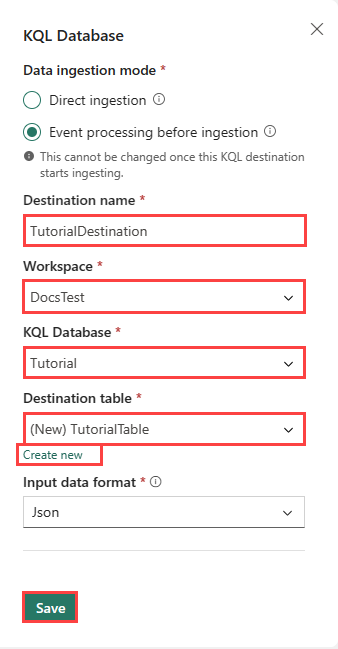
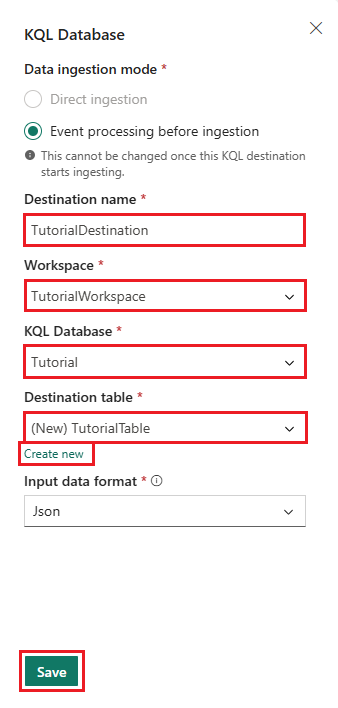
Updated workshop instructions

diff --git a/lab/tutorial-2-get-real-time-events.md b/lab/tutorial-2-get-real-time-events.md
@@ -13,12 +13,12 @@ In this part of the tutorial, you browse the Real-Time hub, create an event stre
 
 ### Sample data
 
-1. In **Source name**, enter *TutorialSource*.
+1. In **Source name**, enter +++*TutorialSource*+++.
 2. In **Sample data** select *Bicycles (Reflex compatible)*.
 
 ### Stream details
 
-1. Edit the **Eventstream name** by selecting the pencil icon and entering *TutorialEventstream*.
+1. Edit the **Eventstream name** by selecting the pencil icon and entering +++*TutorialEventstream*+++.
 2. Select **Next**.
 
 ![Screenshot of connect window in Real-Time hub.](media/connect-source.png)
@@ -27,14 +27,14 @@ In this part of the tutorial, you browse the Real-Time hub, create an event stre
 
 1. Review the event stream details and select **Create source**.
 
-   A new event stream named *TutorialEventstream* is created.
+   A new event stream named +++*TutorialEventstream*+++ is created.
 
 ## Transform events
 
 1. Select **Open Eventstream** from the notification that appears after creating the event stream, or browse to the event stream from the Real-time hub and select **Open Eventstream**.
 2. From the menu ribbon, select **Edit**.
 3. In the event stream authoring canvas select the down arrow on the **Transform events or add destination** tile.  
-4. Select **Manage fields**. The tile is renamed to *Manage_fields*.
+4. Select **Manage fields**. The tile is renamed to *Manage_fields1*.
 5. Select the pencil icon on the *Manage_fields* tile.
 6. In the Manage fields pane, do the following actions:
 
@@ -42,14 +42,12 @@ In this part of the tutorial, you browse the Real-Time hub, create an event stre
     ii. Select **Add all fields**.  
     iii. Select **+ Add field**.  
     iv. From the **Built-in Date Time Function** dropdown, select **SYSTEM.Timestamp()**.
+    v. Enter +++*Timestamp*+++ as the **Field name**.
+    vi. Select **Add**.
 
     ![Screenshot showing the system timestamp selected in the event stream manage fields tile in Real-Time Intelligence.](media/system-timestamp.png)
-
-    v. Enter *Timestamp* as the **Field name**.
-
-    vi. Select **Add**.
     
-8. Select **Save**.
+7. Select **Save**.
 > [!NOTE]
 > The *TutorialTransform* tile is now displayed but with an error, because the destination has not been set.
 
@@ -67,7 +65,7 @@ In this part of the tutorial, you browse the Real-Time hub, create an event stre
 
     | Field | Value |
     | --- | --- |
-    | **Destination name** | *TutorialDestination* |
+    | **Destination name** | +++*TutorialDestination*+++ |
     | **Workspace** | Select the workspace in which you've created your resources. |
     | **KQL Database** | *Tutorial* |
     | **Destination table** | *Create new* - enter *TutorialTable* as table name |

diff --git a/lab/tutorial-4-create-dashboard.md b/lab/tutorial-4-create-dashboard.md
@@ -4,7 +4,7 @@ In this part of the tutorial, learn how to create a Real-Time dashboard in Real-
 
 ## Create a Real-Time dashboard
 
-1. In your KQL queryset, copy/paste, and run the following query. This query returns a column chart showing the most recent number of bikes by *BikepoointID*.
+1. In your KQL queryset, copy/paste, and run the following query. This query returns a column chart showing the most recent number of bikes by *BikepointID*.
 
     ```kusto
     TutorialTable | summarize arg_max(Timestamp, No_Bikes) by BikepointID | sort by BikepointID | render columnchart with (ycolumns=No_Bikes, xcolumn= BikepointID)
@@ -20,8 +20,8 @@ In this part of the tutorial, learn how to create a Real-Time dashboard in Real-
     | Field | Value |
     | --- | --- |
     | **Create new tile** | *In a new dashboard* |
-    | **Dashboard name** | *TutorialDashboard* |
-    | **Tile name** | *Recent bikes by Bikepoint* |
+    | **Dashboard name** | +++*TutorialDashboard*+++ |
+    | **Tile name** | +++*Recent bikes by Bikepoint*+++ |
     | **Open dashboard after creation** | *Selected* |
 
 4. Select **Create**.
@@ -43,7 +43,7 @@ The new dashboard, *TutorialDashboard*, opens with the *Recent bikes by Bikepoin
 
 4. From the menu ribbon Select **Apply changes**.
 5. This creates a new tile, rename the tile by selecting the **ellipsis icon** on the top right corner of the tile, the select **Rename tile**.
-6. Rename the tile to *Chelsea bikes*. 
+6. Rename the tile to +++*Chelsea bikes*+++. 
 
 
 ## Explore the data visually by adding an aggregation

diff --git a/lab/tutorial-1-resources.md b/lab/tutorial-1-resources.md
@@ -6,7 +6,7 @@ In this part of the tutorial, you set up the environment. Specifically, you crea
 1. Sign in to the [Microsoft Fabric portal](https://fabric.microsoft.com).
 2. Choose **Real-Time Intelligence** from the list of options on the home page or the menu bar on the bottom left of the portal.
 3. Select **Workspaces** from the left navigation pane. Then select **+ New workspace**.
-4. Enter a name for the workspace, such as *TutorialWorkspace_@lab.LabInstance.Id*. Select **Apply** when done.
+4. Enter a name for the workspace, such as +++*TutorialWorkspace_@lab.LabInstance.Id*+++. Select **Apply** when done.
 
     ![Screenshot showing how to create a new workspace in Real-Time Intelligence.](media/create-workspace-side-pane.png)
 
@@ -15,7 +15,7 @@ In this part of the tutorial, you set up the environment. Specifically, you crea
 1. Browse to the workspace in which you want to create your tutorial resources.
 2. On the bottom left experience switcher, select **Real-Time Intelligence**.
 3. In the upper left corner, select **+ New > Eventhouse**.
-4. Enter *Tutorial* as the eventhouse name. A KQL database is created simultaneously with the same name.
+4. Enter +++*Tutorial*+++ as the eventhouse name. A KQL database is created simultaneously with the same name.
 5. Select **Create**. When provisioning is complete, the eventhouse **System overview** page is shown.
 
 ## Turn on OneLake availability

diff --git a/lab/tutorial-3-query-data.md b/lab/tutorial-3-query-data.md
@@ -6,11 +6,13 @@ In this part of the tutorial, you learn how to query your streaming data in a [K
 
 1. From the navigation bar open the KQL database you created in a previous step, named *Tutorial*.
 2. Verify that the data is flowing into the database by viewing the **Size** tile in the database details page. The values in this tile should be greater than zero. If the values in the **Size** tile are zero, select **Refresh** from the menu ribbon.
-3. From the menu ribbon, select **New related item** and choose **KQL Queryset**.
+> [!NOTE]
+> The data will take a few minutes to flow into the database. Wait for a minute or two and then select **Refresh** from the menu ribbon.
+3. From the menu ribbon, select **Database** then **New related item** and choose **KQL Queryset**.
 
     ![Screenshot of Tutorial database showing adding a new related item that is a KQL queryset.](media/new-queryset.png)
 
-4. Enter the name for the KQL Queryset: *TutorialQueryset* and select **Create**.
+4. Enter the name for the KQL Queryset: +++*TutorialQueryset*+++ and select **Create**.
 5. Select the *Tutorial* database as the data source for the KQL queryset then select  **Connect**
 6. Select **Create**.
     A new KQL queryset is created and opens in the KQL Queryset editor. It's connected to the *Tutorial* database as a data source, and is pre-populated with several general queries.

diff --git a/lab/tutorial-6-set-alert.md b/lab/tutorial-6-set-alert.md
@@ -24,13 +24,13 @@ The event stream insights are now available for you to create alerts. In this pa
     | **Save location** | | 
     | Workspace | The workspace in which you created resources|
     | Item | Create a new item |
-    | New item name | Tutorial-Reflex |
+    | New item name | +++Tutorial-Reflex+++ |
 
     ![Screenshot of Set alert pane in Real-Time Intelligence.](media/alert-logic.png)
 
 5. Select **Create**.
 
-    The alert is set and you receive a notification in Teams when the condition is met.
+    At this point, you have completed the last part of the tutorial. The alert is set and you receive a notification in Teams when the condition is met. You might want to wait for a few minutes to receive the notification on Microsoft Teams.
 
 ## Next step
 

diff --git a/lab/tutorial-5-power-bi-report.md b/lab/tutorial-5-power-bi-report.md
@@ -37,7 +37,7 @@ A Power BI report is a multi-perspective view into a semantic model, with visual
 ### Save the report
 
 1. In the top left corner of the ribbon, select **File** > **Save**.
-2. Enter the name *TutuorialReport*. Choose your workspace, and set sensitivity as Public.
+2. Enter the name +++*TutuorialReport*+++. Choose your workspace, and set sensitivity as Public.
 3. Select **Continue**.
 4. Select **Open the file in Power BI to view, edit, and get a shareable link.**
 
